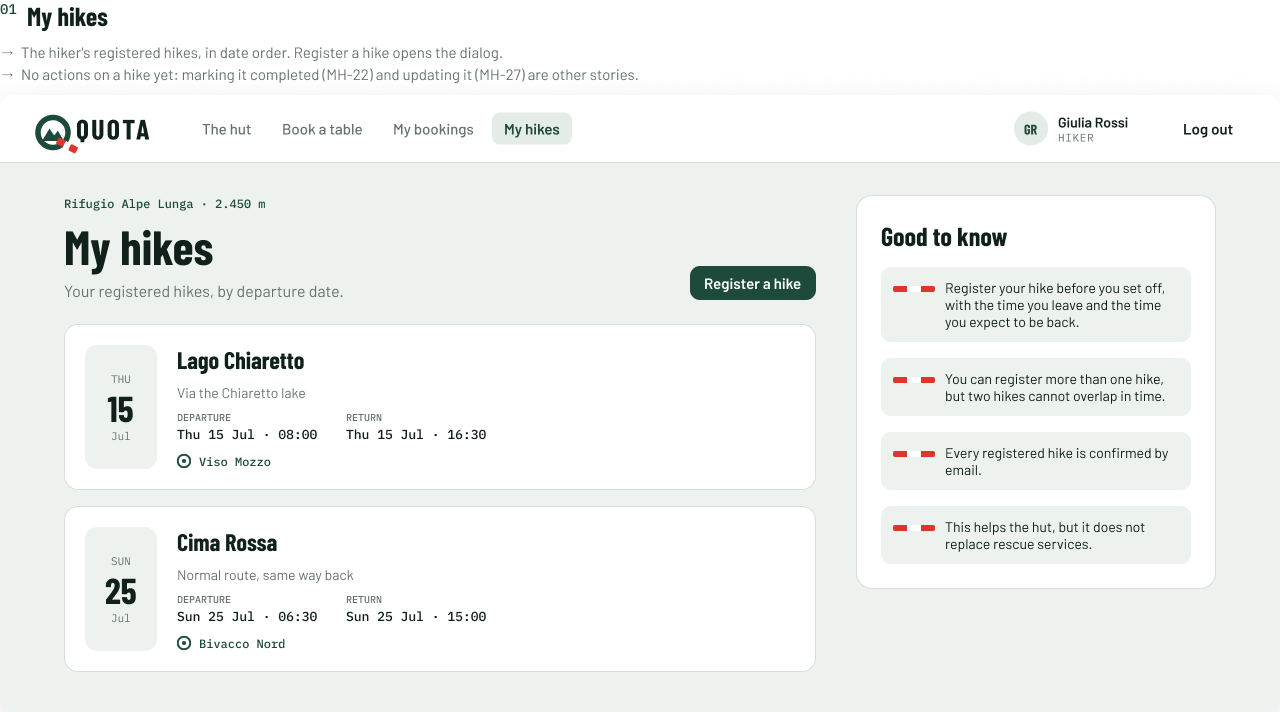
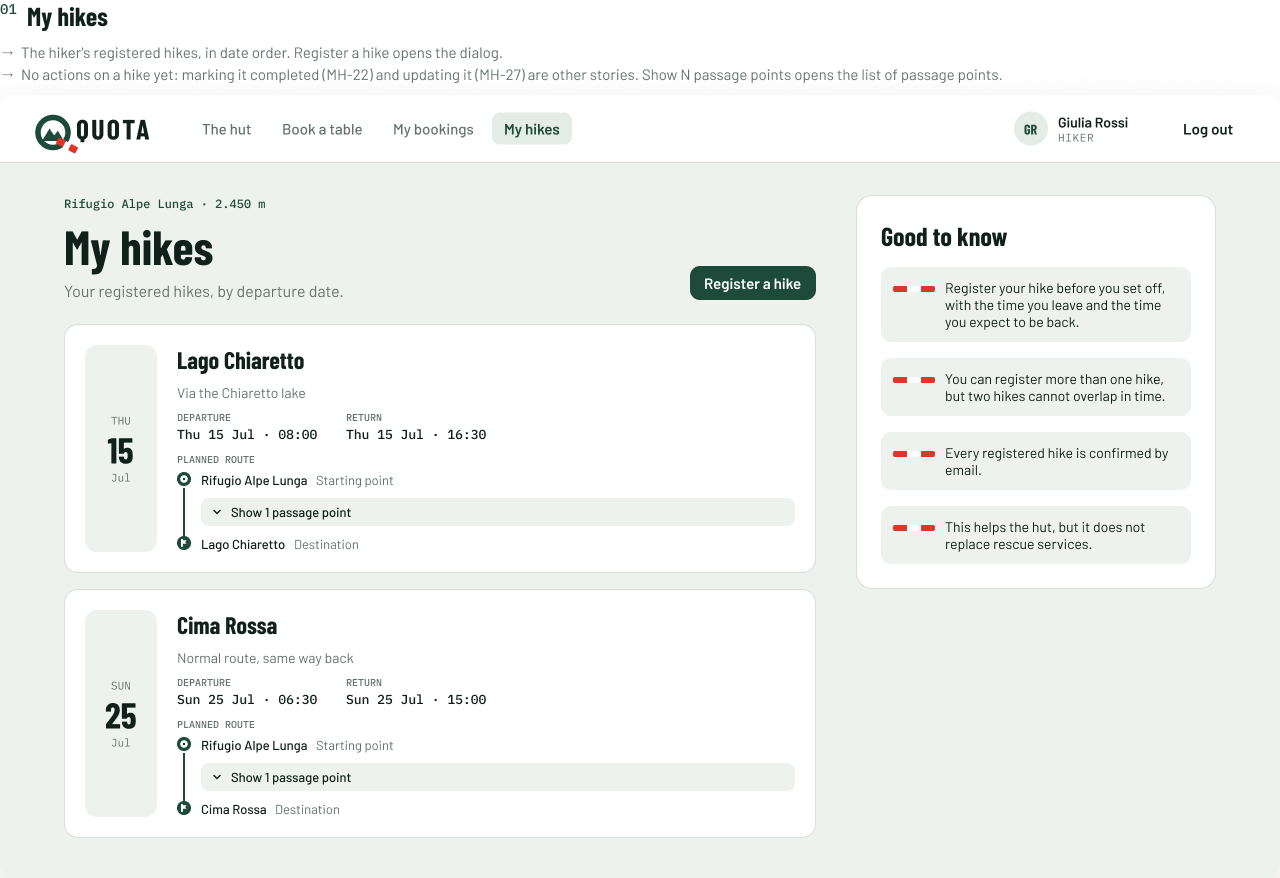
fix: update mockup story 20

diff --git a/docs/mockups/register-a-hike/README.md b/docs/mockups/register-a-hike/README.md
@@ -9,11 +9,11 @@ One new page, **My hikes**, lists the hikes registered by the hiker who is logge
 **Figma (source of truth):** page *MH-20 Register a hike* in [Mountain Hut – Mockups (Team 16)](https://www.figma.com/design/VlTombwHX1DQ7yB2x4U5Yx?node-id=663-520). The email is on the page *Emails*, see the [emails mockup](../emails/README.md). Every element is an instance from the *Components* page. Most of them are already used by the [hiker booking page](../hiker-booking-page/README.md), [booking](../booking/README.md) and [login](../login/README.md) mockups: step heading, button, alert, text field and the phone bars. This story adds:
 
 - *Navbar* with the link **My hikes** after *My bookings* (the hiker navbar, `Role=Hiker, Tab=My hikes`). It is a separate navbar for this page: the shared *Navbar / Logged in* is not changed.
-- *Hike card*: one hike of the list. Variants: `Size` (Desktop, Phone).
+- *Hike card*: one hike of the list. Variants: `Size` (Desktop, Phone) and `State` (Collapsed, Expanded). The card shows the *planned route*: the start, the destination and, between them, a line *Show N passage points* that opens the list (Expanded: *Hide N passage points*). The [active hikes mockup](../active-hikes/README.md) uses the same planned route on its own card.
 - *Hike option*: a popular hike to start from. Variants: `State` (Default, Selected).
 - *Route point*: one point of the route. Variants: Start, Passage point, Passage point dragging, Add, Destination.
 - *Date and time field*: the day and the time of the departure or the return. Variants: Empty, Filled, Error.
-- Six icons: start, passage point, destination, add, grip (drag handle) and remove.
+- Six icons: start, passage point, destination, add, grip (drag handle) and remove, and a chevron for the *Show passage points* line.
 
 Same QUOTA brand, colours and fonts.
 
@@ -31,19 +31,22 @@ Everything shown comes from the story or from the product owner's clarifications
 | Product owner, [#51](https://github.com/SE2-Polito/AY26-27-Mountain-Hut/issues/51) | The hike has a planned **departure** and an expected **return** (day and time), both required. The product owner agreed with the team's reading that the return must be after the departure. |
 | Team decision (not yet confirmed by the product owner) | A hiker can register more than one hike, but two hikes of the same hiker cannot overlap in time. |
 | Team decision (not yet confirmed by the product owner) | The passage points are in order: the hiker moves them by dragging. The start and the destination keep their place. |
+| Team decision | A hiker cannot register a hike in the past: the departure must be in the future. |
+| Team decision (not yet confirmed by the product owner) | In the list, a hike shows its **planned route**: the start (the hut), the destination and, between them, a line *Show N passage points*. The passage points are hidden until the hiker opens the line, so a hike with many points stays short. The employee sees the same route on the [active hikes](../active-hikes/README.md) page. |
 | Team decision (not yet confirmed by the product owner) | The list of passage points has no fixed limit. It grows with each point up to a maximum height (about four points), then it scrolls inside *Your route*, as a long menu does in the MH-10 menus mockup. The start, *Add a passage point* and the destination stay in view. |
 | Team decision (not yet confirmed by the product owner) | The saved hike is emailed to the hiker, as the bookings are ([emails mockup](../emails/README.md), email 6). A refused registration sends no email. |
 | Team decision | Only a logged in hiker can register a hike. A table booking is not needed. The page is reached from the new navbar link *My hikes*. |
 
 ## The flow
 
-1. **My hikes** (screen 1) lists the hikes registered by the hiker, in departure date order. Each hike shows the day, the destination, the route, the departure, the return and, when there are any, the passage points in order. The hikes have no buttons: marking a hike as completed (MH-22) and updating it (MH-27) are other stories. A hiker with no registered hikes sees a message and a *Register a hike* button (screen 2).
+1. **My hikes** (screen 1) lists the hikes registered by the hiker, in departure date order. Each hike shows the day, the destination, the route, the departure, the return and its planned route (start, passage points, destination). The hikes have no buttons: marking a hike as completed (MH-22) and updating it (MH-27) are other stories. A hiker with no registered hikes sees a message and a *Register a hike* button (screen 2).
 2. **Register a hike** opens the dialog on top of the list, empty (screen 3). It has three steps: **Start from a popular hike** (optional), **When** (departure and expected return) and **Route description** (the route, then the points of the route). Nothing is saved until *Register hike*.
 3. **A popular hike** (screen 4) is a card to press: it fills the route description, the passage points and the destination. The times stay empty for the hiker. Everything can be changed afterwards.
 4. **The route** is a list, one point under the other, with a line that joins them: the **start** (the hut, it cannot be changed or moved), the **passage points**, and the **destination** (required, it cannot be moved). *Add a passage point* adds one before the destination. Each passage point has a handle to move it and a button to remove it. While one is dragged, a line shows where it will land (screen 5). With many passage points the list keeps its height and scrolls (screen 9, see [Many passage points](#many-passage-points)).
 5. **Register hike** sends the hike. It works, or it is refused and nothing is saved:
    - Missing information (screen 6): a message sits under each field that needs attention. The return must be after the departure.
-   - Overlap (screen 7): the times overlap another registered hike of the same hiker. A red note says which one. The hiker can change the times or close the dialog.
+   - Departure in the past (screen 10): the departure is earlier than now. A message sits under the departure. The hiker chooses a later time or closes the dialog.
+  - Overlap (screen 7): the times overlap another registered hike of the same hiker. A red note says which one. The hiker can change the times or close the dialog.
 6. When the hike is registered, the dialog closes and the list shows the new hike in its place, with a green note (screen 8). The hiker is emailed the confirmation.
 
 ## Screens
@@ -59,6 +62,7 @@ Everything shown comes from the story or from the product owner's clarifications
 | 7 | The hike overlaps another one | ![Hike overlaps another](07-hike-overlaps-another.png) |
 | 8 | Hike registered | ![Hike registered](08-hike-registered.png) |
 | 9 | Many passage points: the list scrolls inside *Your route* | ![Many passage points](09-many-passage-points.png) |
+| 10 | Departure in the past | ![Departure in the past](10-departure-in-the-past.png) |
 
 ### On a phone
 
@@ -87,7 +91,7 @@ The sheet has the same steps and rules as desktop screens 3 to 7. With many pass
 | Day | The day of the departure (*THU 15 Jul*). |
 | Destination, route | The destination as the title, the route description under it. |
 | Departure, return | Day and time (*Thu 15 Jul · 08:00*). |
-| Passage points | In order, separated by an arrow (*Colle Basso → Pian dei Fiori*). A hike without passage points shows none. |
+| Planned route | A line *Show N passage points* between the start and the destination, closed by default; pressing it opens the list, in order, and the line says *Hide N passage points*. The start is the hut (*Rifugio Alpe Lunga*, *Starting point*) and the destination is the one the hiker entered (*Destination*). A hike without passage points has no such line. |
 | Buttons | None. |
 
 ### Register a hike
@@ -125,6 +129,7 @@ On a phone the sheet scrolls and the list grows with it.
 | Dialog | **Register a hike.** "Tell the hut where you are going and when you plan to be back. Nothing is saved until Register hike." Buttons: *Close*, *Register hike*. |
 | Footer of the dialog | "Nothing is saved yet." After a refusal: "Nothing has been saved." |
 | Route | "Drag a passage point to move it. The start and the destination keep their place." |
+| Departure in the past | Under the departure, in red: "The departure cannot be in the past." Nothing is saved ("Nothing has been saved."). |
 | Missing information | Under the field: "Describe your route." · "Enter a destination." · "The return must be after the departure." The empty field keeps its placeholder (*Describe the route, e.g. via the Chiaretto lake*, *e.g. Lago Chiaretto*, *Choose a day*). |
 | Overlap | Red note: "These times overlap your hike to *Lago Chiaretto* (*Thu 15 Jul, 08:00 – 16:30*). Choose other times. Nothing has been saved." Every choice is kept. |
 | Registered | Green note on the list: "Your hike to *Passo Alpe Lunga* is registered. We emailed the confirmation to *giulia.rossi@example.com*." |
@@ -147,7 +152,6 @@ These are for the product owner. Until they are answered, the mockup follows the
 
 - **Start and end.** Is the start always the hut, and does the hike always end back at the hut? The mockup assumes both: the start is read only and "return" means back at the hut.
 - **Which hikes are listed.** Does *My hikes* also list the past hikes (finished hikes, MH-22), or only the ones to come and the ones in progress? The mockup lists them all, with no status.
-- **A departure in the past.** Can a hike be registered with a departure already past?
 - **Overlap.** Two hikes overlap when their times cross. Do two hikes where one starts exactly when the other ends overlap? Is a margin needed between two hikes?
 - **Confirmation email.** The specifications do not ask for it. The team added it to be consistent with the bookings.
 - **Popular hikes.** The product owner accepts a few predefined hikes as long as the UX is smooth. The team made a fixed list. Are the destination, the route and the passage points editable after choosing one? The mockup says yes.
